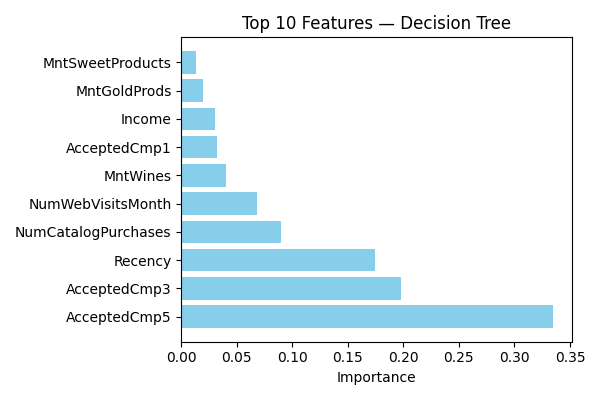
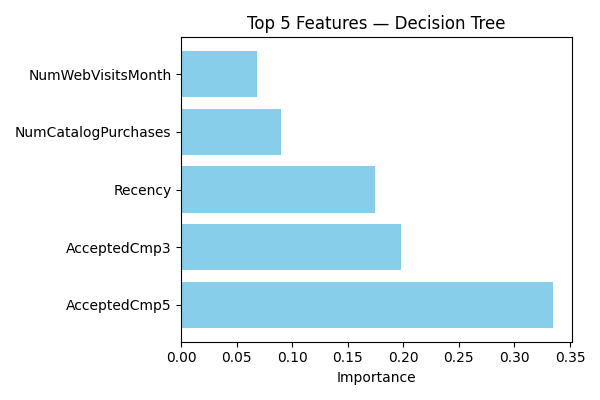
Update the logic for feature_importance module

Changed region(s): [[0.03, 0.12, 0.93, 0.81], [0.39, 0.03, 0.63, 0.09], [0.66, 0.03, 0.87, 0.09]]

diff --git a/src/main.py b/src/main.py
@@ -4,14 +4,12 @@ from train_models import train_models
 from test_performance import evaluate_models
 from feature_importance import feature_importance
 from tuning import tune_models
-from sklearn.metrics import RocCurveDisplay
-import matplotlib.pyplot as plt
-import os
+from roc_curve import plot_roc_curves
 
 DATA_PATH = "../data/marketing_campaign.csv"
 TARGET_COL = "Response"
 result_feature = "../results/feature_importance"
-result_roc = "../results/roc"
+result_roc = "../results/roc/roc_final.png"
 
 def main() -> None:
     # 1) Load dataset
@@ -68,32 +66,22 @@ def main() -> None:
     for name, cm in cm_final_tuned.items():
         print(f"\n{name}:\n{cm}")
 
-    # 8. ROC curves for final models
-    fig, ax = plt.subplots(figsize=(6, 6))
-
+    # 8. Generate ROC curves for final models
     final_models = {**trained_final, **tuned_final}
-    for model_name, pipe in final_models.items():
-        if hasattr(pipe, "predict_proba"):
-            y_score = pipe.predict_proba(X_test)[:, 1]
-        else:
-            # fall back to decision_function if available
-            y_score = pipe.decision_function(X_test)
+    plot_roc_curves(
+        final_models,
+        X_test,
+        y_test,
+        out_path=result_roc,
+        title="ROC Curves",
+    )
 
-        RocCurveDisplay.from_predictions(
-            y_test,
-            y_score,
-            name=model_name,
-            ax=ax,
-        )
+    # 9. Feature-importance
+    # Print feature-importance table
+    feature_importance(trained_final, preprocessor, out_dir=result_feature, verbose=True)
+    feature_importance(tuned_final, preprocessor, out_dir=result_feature, verbose=True)
 
-    ax.plot([0, 1], [0, 1], "--", color="gray")
-    ax.set_title("ROC Curves — Final Models")
-    plt.tight_layout()
-    plt.savefig(os.path.join(result_roc, "roc_final_models.png"))
-    plt.close()
-
-    # 8. Feature-importance plots
-    # Plot feature importance only for the final selected models
+    # Plot feature importance  for the final selected models
     feature_importance(trained_final, preprocessor, result_feature)
     feature_importance(tuned_final, preprocessor, result_feature)
     print("\nFeature-importance plots saved")

diff --git a/src/roc_curve.py b/src/roc_curve.py
@@ -1,0 +1,42 @@
+# src/roc_curve.py
+"""Utility functions for common model visualisations."""
+
+from typing import Mapping
+import os
+import matplotlib.pyplot as plt
+from sklearn.metrics import RocCurveDisplay
+from numpy.typing import ArrayLike
+
+__all__ = ["plot_roc_curves"]
+
+def plot_roc_curves(
+    models: Mapping[str, object],
+    X_test: ArrayLike,
+    y_test: ArrayLike,
+    out_path: str,
+    title: str | None = None,
+) -> None:
+    """Plot ROC curves for a collection of fitted pipelines."""
+    os.makedirs(os.path.dirname(out_path), exist_ok=True)
+
+    fig, ax = plt.subplots(figsize=(6, 6))
+
+    for name, pipe in models.items():
+        if hasattr(pipe, "predict_proba"):
+            y_score = pipe.predict_proba(X_test)[:, 1]
+        elif hasattr(pipe, "decision_function"):
+            y_score = pipe.decision_function(X_test)
+        else:
+            raise AttributeError(
+                f"Model '{name}' lacks both predict_proba and decision_function."
+            )
+
+        RocCurveDisplay.from_predictions(y_test, y_score, name=name, ax=ax)
+
+    ax.plot([0, 1], [0, 1], "--", color="gray")
+    ax.set_xlabel("False Positive Rate")
+    ax.set_ylabel("True Positive Rate (Recall)")
+    ax.set_title(title or "ROC Curves")
+    plt.tight_layout()
+    plt.savefig(out_path)
+    plt.close(fig) 

diff --git a/src/feature_importance.py b/src/feature_importance.py
@@ -11,8 +11,13 @@ def feature_importance(
         trained_models: Dict[str, Any],
         preprocessor,
         out_dir: str,
-        top_n: int = 10,) -> None:
-    """Generate and save feature-importance plots"""
+        top_n: int = 5,
+        verbose: bool = False,) -> None:
+    """Generate and save feature-importance plots.
+
+    If *verbose* is True, also print the full feature-importance list for each model
+    to the console, sorted by descending importance.
+    """
 
     try:
         feature_names = preprocessor.get_feature_names_out()
@@ -35,6 +40,12 @@ def feature_importance(
         idx_sorted = np.argsort(importance)[-top_n:][::-1]
         top_features = np.array(feature_names)[idx_sorted]
         top_scores = importance[idx_sorted]
+
+        if verbose:
+            # Print the top-N features
+            print(f"\n=== {name} — Top {top_n} features ===")
+            for feat, score in zip(top_features, top_scores):
+                print(f"{feat:<30s} {score:.4f}")
 
         # Generate images
         plt.figure(figsize=(6, 4))
